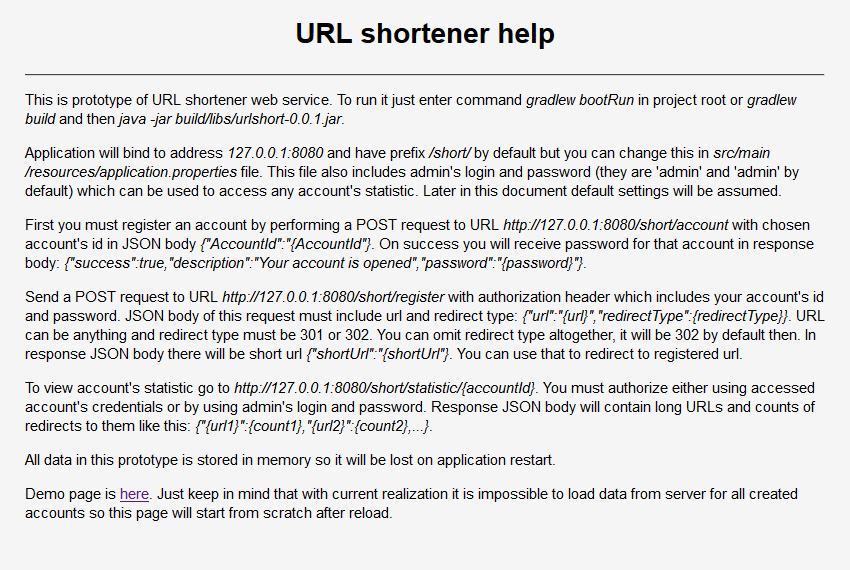
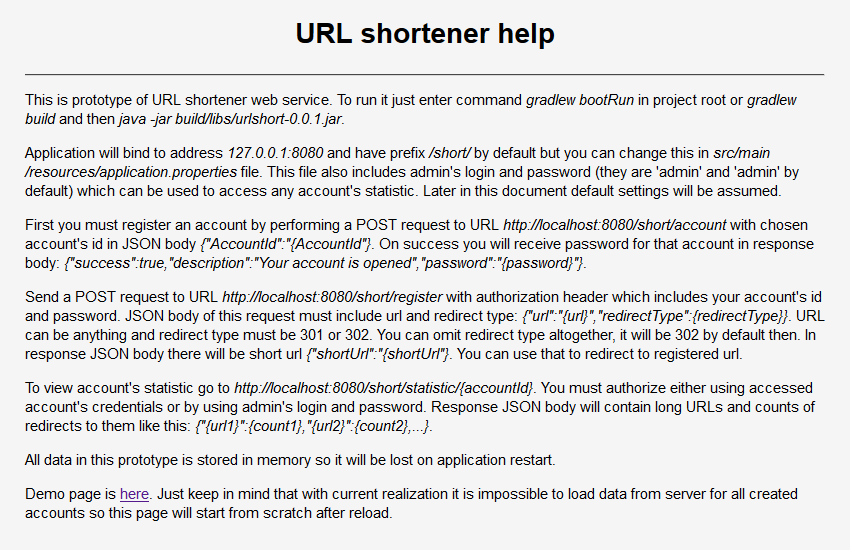
Fix help page and its screenshot.

Changed region(s): [[0.0306, 0.1236, 0.9788, 0.9582], [0.3365, 0.0309, 0.6424, 0.0927]]

diff --git a/src/main/resources/static/html/help.html b/src/main/resources/static/html/help.html
@@ -25,13 +25,13 @@
 
     <p>
         First you must register an account by performing a POST request to URL
-        <i>http://127.0.0.1:8080/short/account</i> with chosen account's id in JSON body
+        <i>http://localhost:8080/short/account</i> with chosen account's id in JSON body
         <i>{"AccountId":"{AccountId"}</i>. On success you will receive password for that account in response body:
         <i>{"success":true,"description":"Your account is opened","password":"{password}"}</i>.
     </p>
 
     <p>
-        Send a POST request to URL <i>http://127.0.0.1:8080/short/register</i> with authorization header which includes
+        Send a POST request to URL <i>http://localhost:8080/short/register</i> with authorization header which includes
         your account's id and password. JSON body of this request must include url and redirect type:
         <i>{"url":"{url}","redirectType":{redirectType}}</i>. URL can be anything and redirect type must be 301 or 302.
         You can omit redirect type altogether, it will be 302 by default then. In response JSON body there will be
@@ -39,7 +39,7 @@
     </p>
 
     <p>
-        To view account's statistic go to <i>http://127.0.0.1:8080/short/statistic/{accountId}</i>. You must authorize
+        To view account's statistic go to <i>http://localhost:8080/short/statistic/{accountId}</i>. You must authorize
         either using accessed account's credentials or by using admin's login and password. Response JSON body will
         contain long URLs and counts of redirects to them like this: <i>{"{url1}":{count1},"{url2}":{count2},...}</i>.
     </p>
